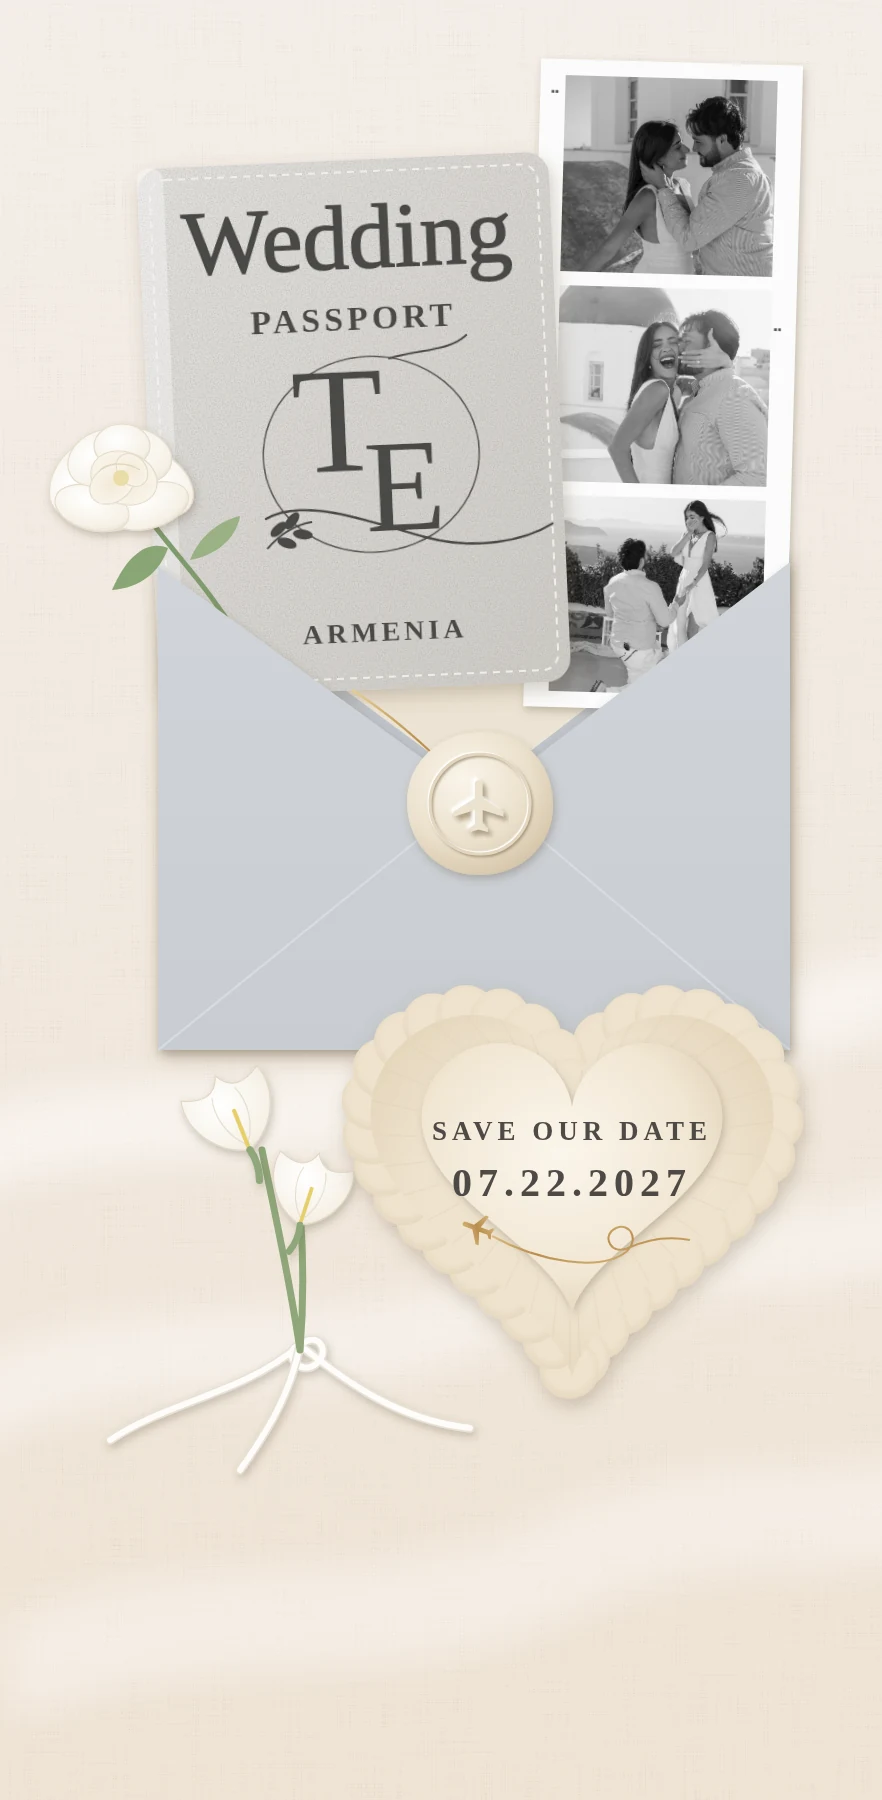
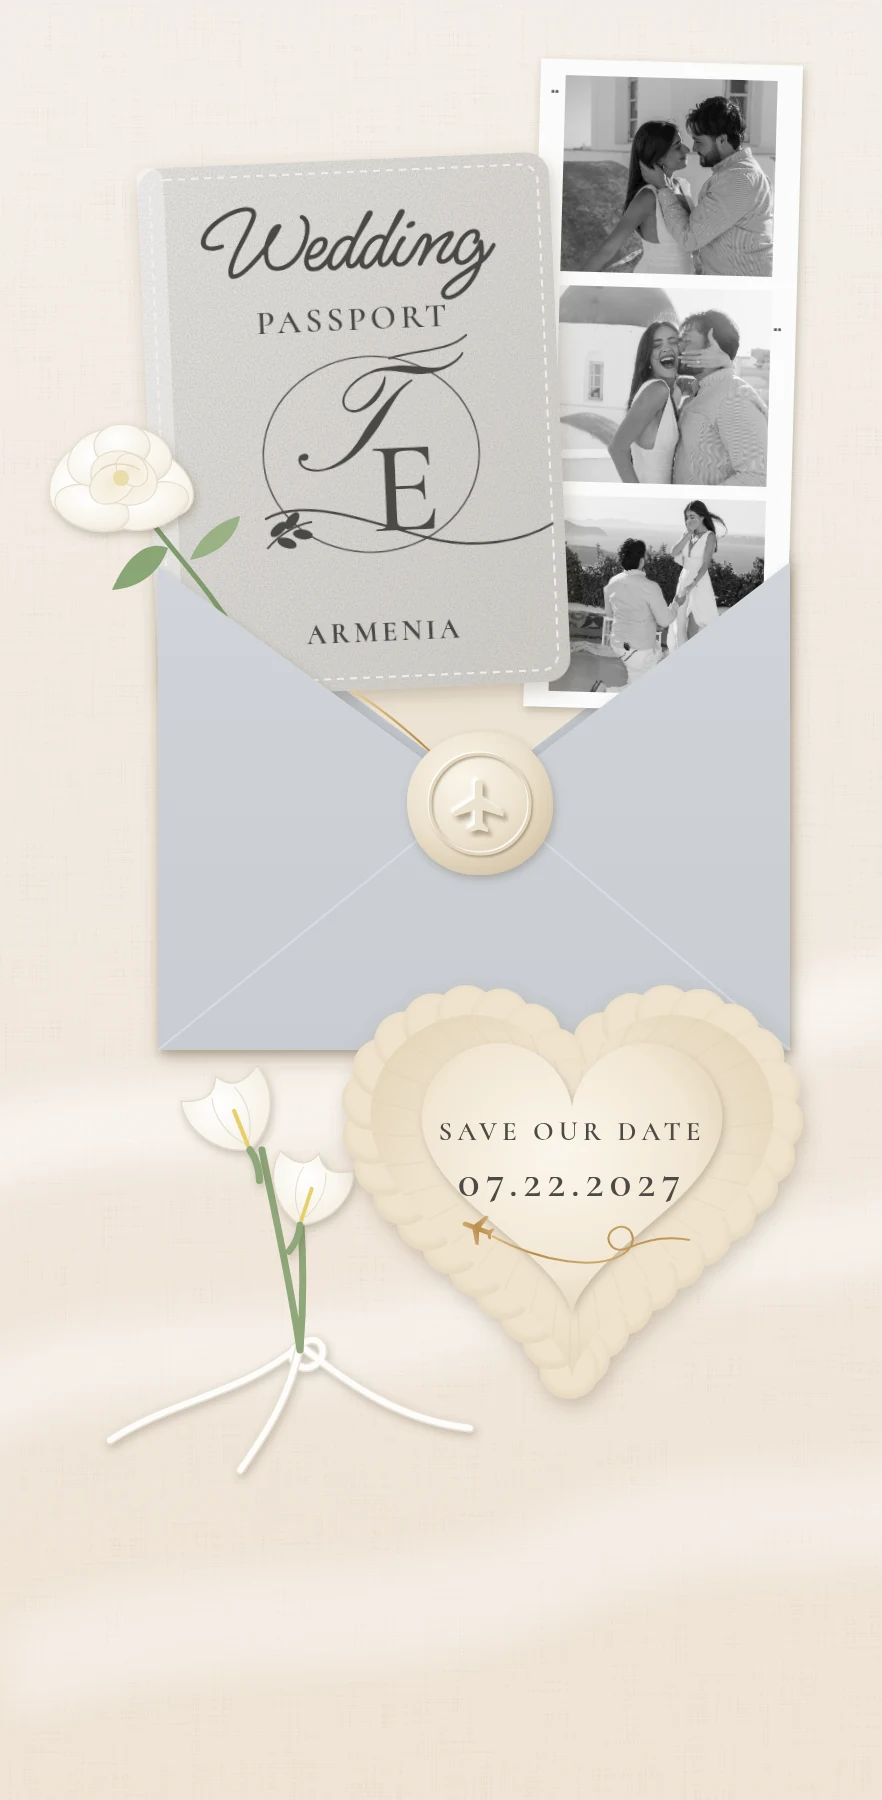
Restore original passport fonts in static artwork

diff --git a/index.html b/index.html
@@ -105,7 +105,7 @@
       <div class="bg fade" data-background="images/passport-background.webp"></div>
       <div class="card">
         <!-- Static export of partials/passport-art.svg; regenerate with tools/render_static_art.cjs. -->
-<img class="passport-art" data-src="images/passport-art.webp" alt="" width="882" height="1800" loading="eager" decoding="async">
+<img class="passport-art" data-src="images/passport-art.webp?v=ab1f50397b94" alt="" width="882" height="1800" loading="eager" decoding="async">
         <p class="pack">PACK YOUR BAGS</p>
         <p class="married-in">we're getting married in</p>
         <p class="armenia">ARMENIA</p>
